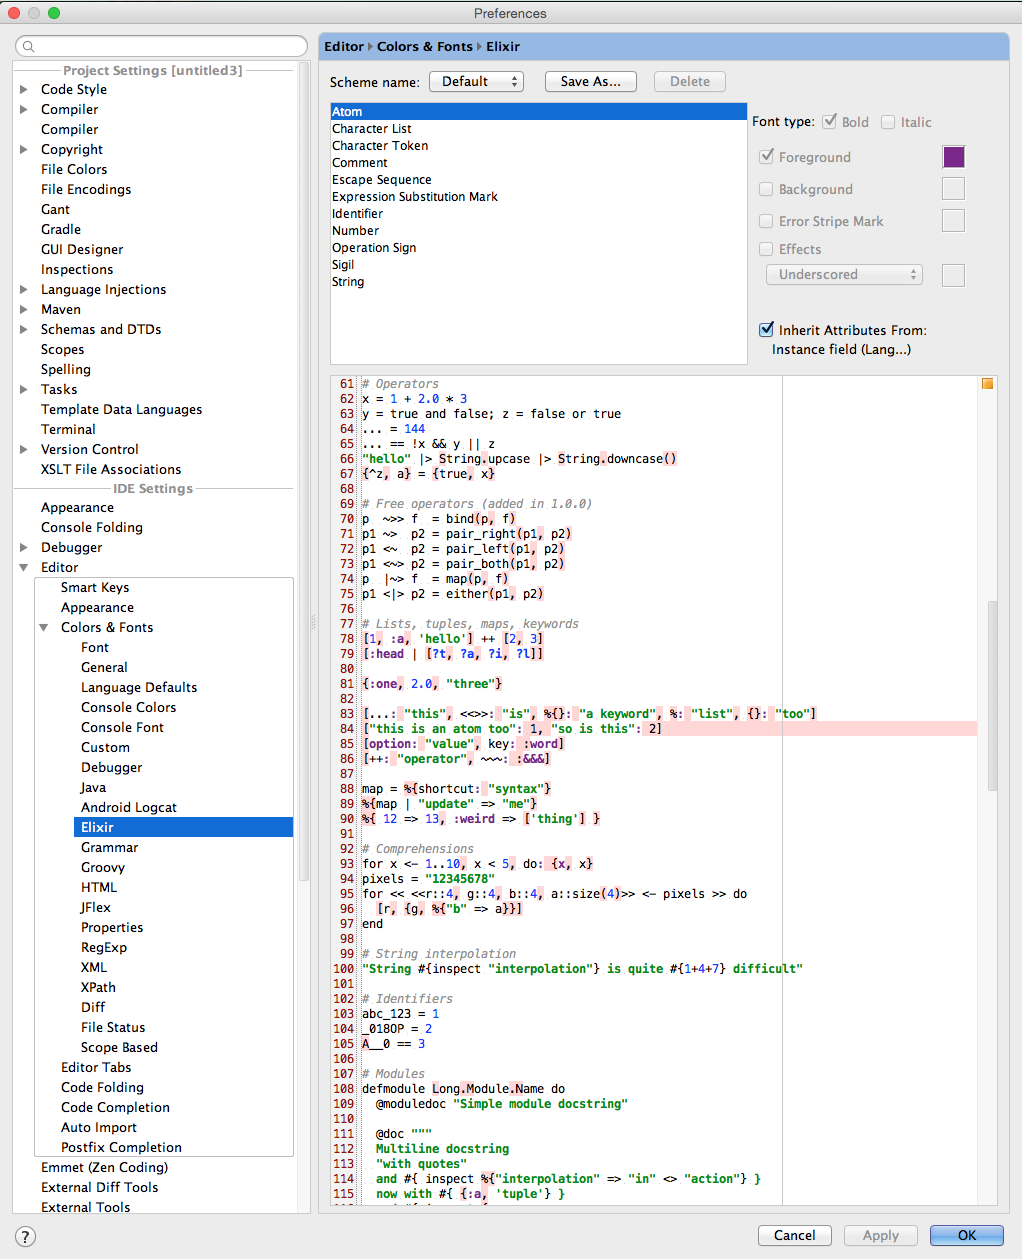
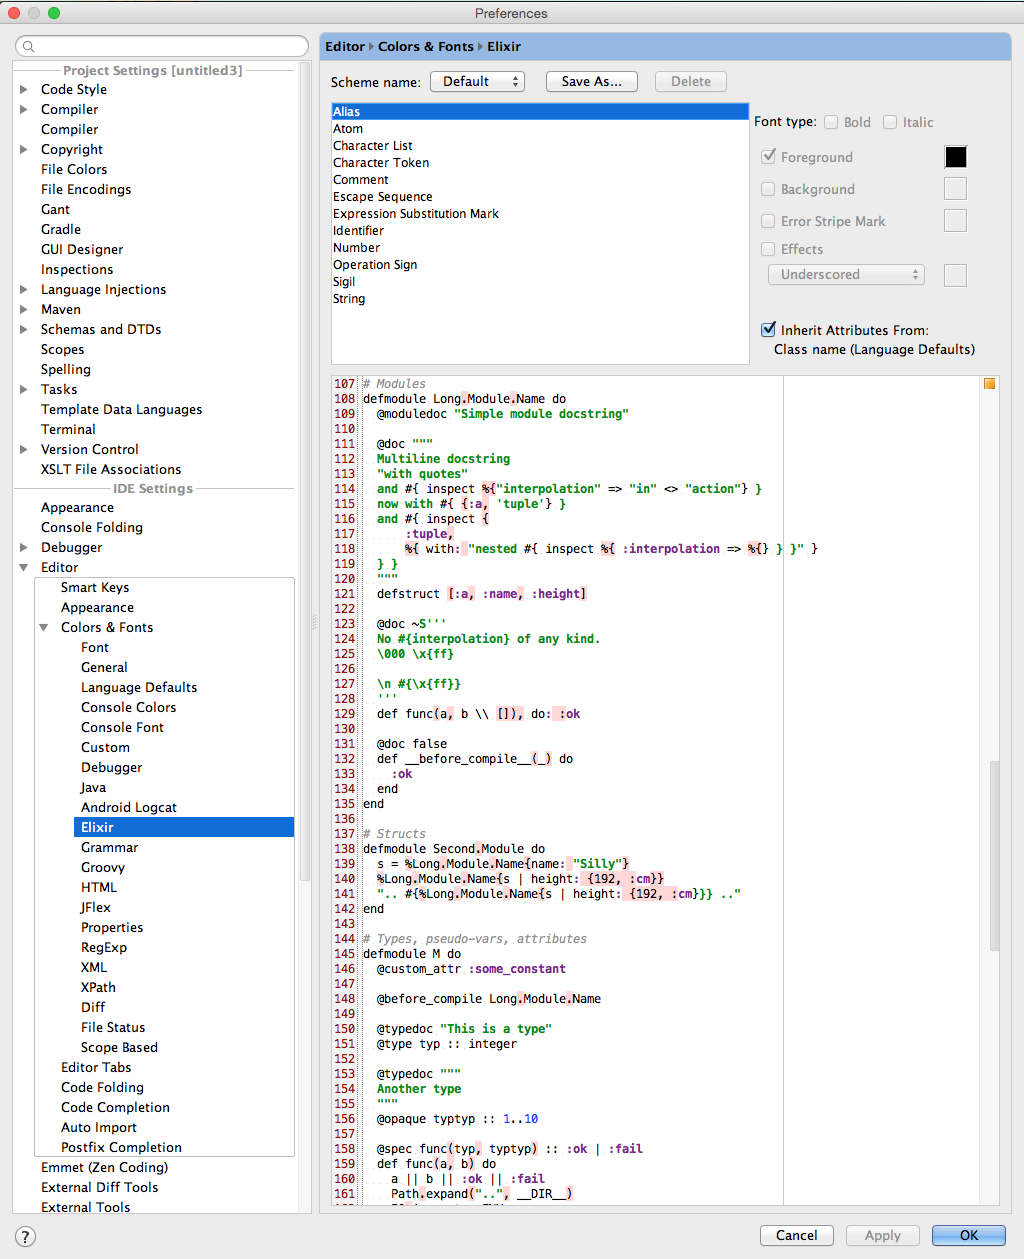
Add Alias to Color Settings Page

diff --git a/src/org/elixir_lang/ElixirSyntaxHighlighter.java b/src/org/elixir_lang/ElixirSyntaxHighlighter.java
@@ -17,6 +17,11 @@ import static com.intellij.openapi.editor.colors.TextAttributesKey.createTextAtt
  * Created by luke.imhoff on 8/2/14.
  */
 public class ElixirSyntaxHighlighter extends SyntaxHighlighterBase {
+    static final TextAttributesKey ALIAS = createTextAttributesKey(
+            "ELIXIR_ALIAS",
+            DefaultLanguageHighlighterColors.CLASS_NAME
+    );
+
     static final TextAttributesKey ATOM = createTextAttributesKey(
             "ELIXIR_ATOM",
             DefaultLanguageHighlighterColors.INSTANCE_FIELD
@@ -78,6 +83,7 @@ public class ElixirSyntaxHighlighter extends SyntaxHighlighterBase {
             DefaultLanguageHighlighterColors.VALID_STRING_ESCAPE
     );
 
+    private static final TextAttributesKey[] ALIAS_KEYS = new TextAttributesKey[]{ALIAS};
     private static final TextAttributesKey[] ATOM_KEYS = new TextAttributesKey[]{ATOM};
     private static final TextAttributesKey[] BAD_CHAR_KEYS = new TextAttributesKey[]{BAD_CHARACTER};
     private static final TextAttributesKey[] CHAR_LIST_KEYS = new TextAttributesKey[]{CHAR_LIST};
@@ -182,7 +188,9 @@ public class ElixirSyntaxHighlighter extends SyntaxHighlighterBase {
     @NotNull
     @Override
     public TextAttributesKey[] getTokenHighlights(IElementType tokenType) {
-        if (ATOMS.contains(tokenType)) {
+        if (tokenType.equals(ElixirTypes.ALIAS)) {
+            return ALIAS_KEYS;
+        } else if (ATOMS.contains(tokenType)) {
             return ATOM_KEYS;
         } else if (tokenType.equals(TokenType.BAD_CHARACTER)) {
             return BAD_CHAR_KEYS;

diff --git a/src/org/elixir_lang/ElixirColorSettingsPage.java b/src/org/elixir_lang/ElixirColorSettingsPage.java
@@ -20,6 +20,7 @@ import static com.intellij.openapi.util.io.FileUtil.loadTextAndClose;
  */
 public class ElixirColorSettingsPage implements ColorSettingsPage {
     private static final AttributesDescriptor[] DESCRIPTORS = new AttributesDescriptor[]{
+            new AttributesDescriptor("Alias", ElixirSyntaxHighlighter.ALIAS),
             new AttributesDescriptor("Atom", ElixirSyntaxHighlighter.ATOM),
             new AttributesDescriptor("Character List", ElixirSyntaxHighlighter.CHAR_LIST),
             new AttributesDescriptor("Character Token", ElixirSyntaxHighlighter.CHAR_TOKEN),
